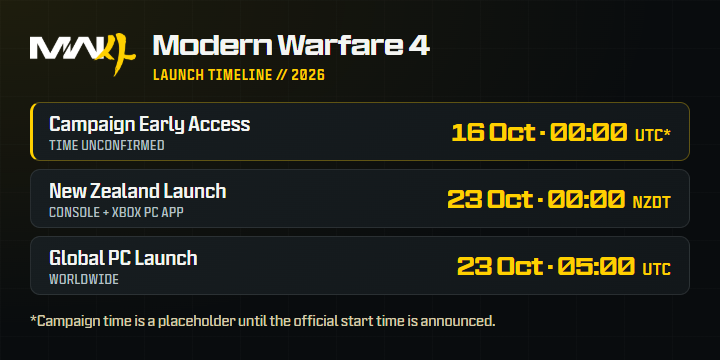
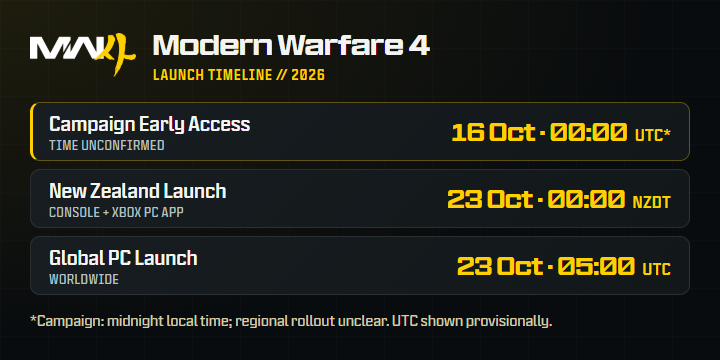
fix: clarify campaign midnight local time footnote.

Changed region(s): [[0.1222, 0.8556, 0.7639, 0.9167]]

diff --git a/index.html b/index.html
@@ -11,11 +11,11 @@
   <meta property="og:title" content="Modern Warfare 4 — Launch Clock" />
   <meta property="og:type" content="website" />
   <meta property="og:url" content="https://mw4.mxr.lol" />
-  <meta property="og:image" content="https://mw4.mxr.lol/launch-timeline.png?v=4" />
+  <meta property="og:image" content="https://mw4.mxr.lol/launch-timeline.png?v=5" />
   <meta property="og:image:type" content="image/png" />
   <meta property="og:image:width" content="720" />
   <meta property="og:image:height" content="360" />
-  <meta property="og:image:alt" content="Modern Warfare 4 launch timeline: Campaign Early Access on 16 Oct 2026 at 00:00 UTC (placeholder), New Zealand launch on 23 Oct at 00:00 NZDT, and global PC launch on 23 Oct at 05:00 UTC." />
+  <meta property="og:image:alt" content="Modern Warfare 4 launch timeline: Campaign Early Access on 16 Oct 2026 at midnight local time; regional rollout unclear, UTC shown provisionally. New Zealand launch on 23 Oct at 00:00 NZDT, and global PC launch on 23 Oct at 05:00 UTC." />
   <meta property="og:description" content="Campaign early access and global launch countdowns." />
 
   <script id="discord:component-embed" type="application/json">
@@ -32,8 +32,8 @@
             "type": 12,
             "items": [
               {
-                "media": { "url": "https://mw4.mxr.lol/launch-timeline.png?v=4" },
-                "description": "2026 launch times: Campaign Early Access — 16 Oct, 00:00 UTC (placeholder); New Zealand — 23 Oct, 00:00 NZDT; Global PC — 23 Oct, 05:00 UTC."
+                "media": { "url": "https://mw4.mxr.lol/launch-timeline.png?v=5" },
+                "description": "2026 launch times: Campaign Early Access — 16 Oct, midnight local time; regional rollout unclear, UTC shown provisionally. New Zealand — 23 Oct, 00:00 NZDT; Global PC — 23 Oct, 05:00 UTC."
               }
             ]
           },
